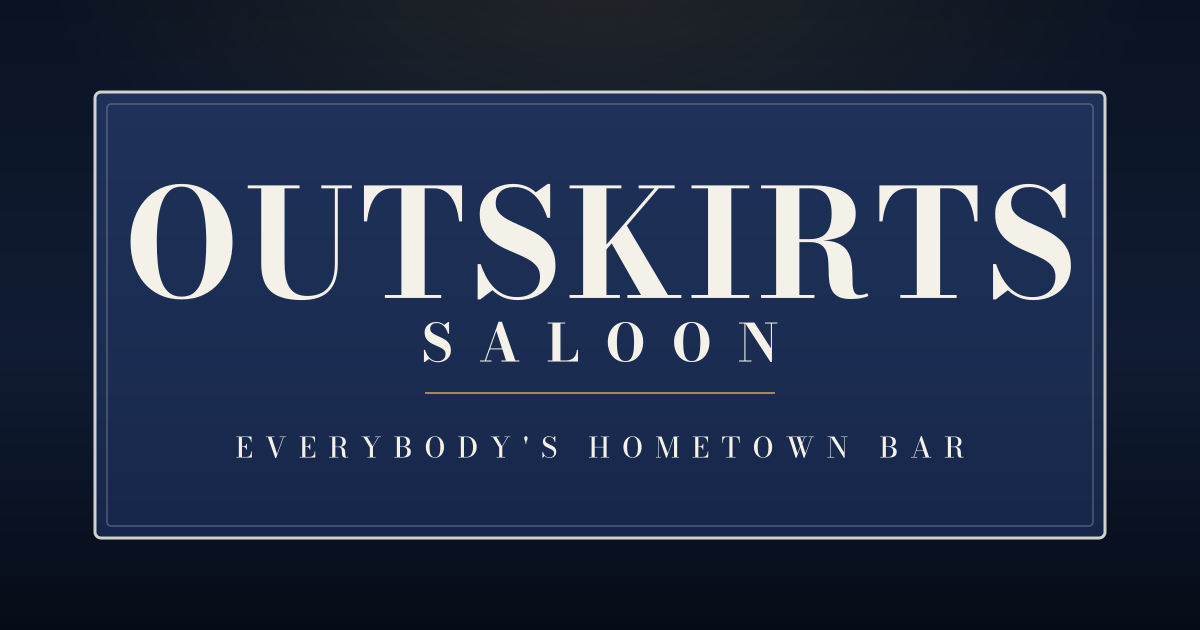
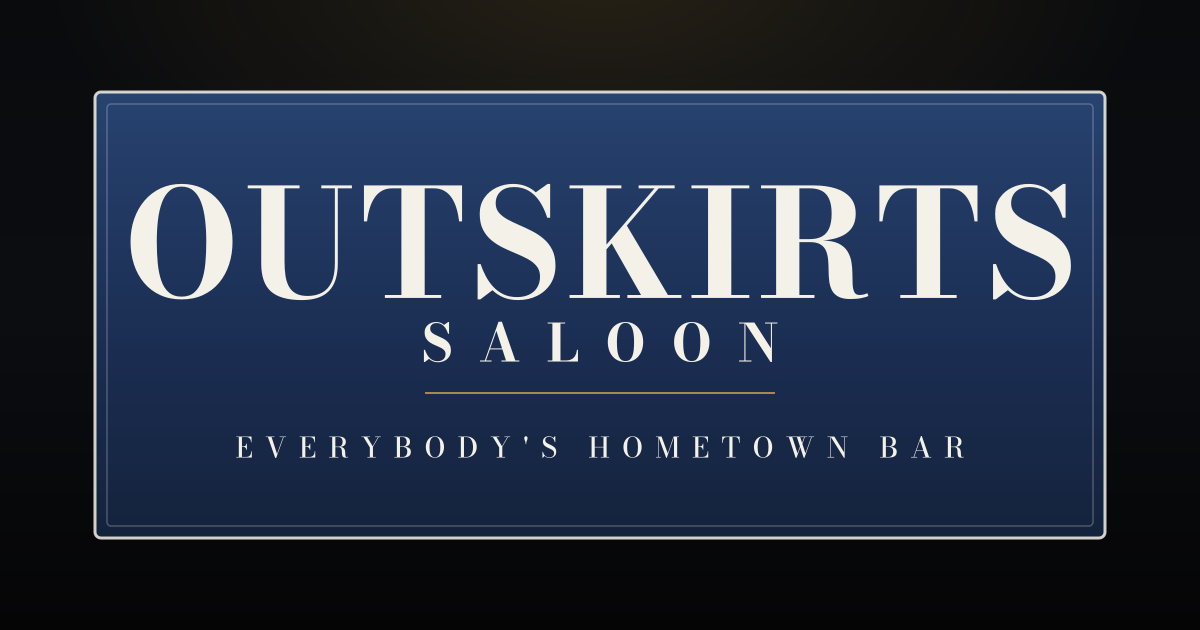
Shift theme to near-black for a dark bar feel
Page, nav, footer, cards, and fact tiles move from deep navy to near-black
charcoal; only the signboard keeps the physical sign's navy so the lit board
glows against the black. Fix hardcoded blue nav background to use the black.
De-blue caption gray. Regenerate og.png to match.

Changed region(s): [[0.8633, 0.1206, 1.0, 0.8444], [0.0, 0.1206, 0.1233, 0.8444], [0.2158, 0.1206, 0.2467, 0.1508]]

diff --git a/app/globals.css b/app/globals.css
@@ -10,18 +10,20 @@
 */
 
 :root {
-  /* Darker "lit sign at night" saloon palette. The signboard field stays a
-     true, slightly-brighter navy so it glows against a deep near-black page. */
-  --navy: #101c34;        /* primary page background — deep navy */
-  --navy-deep: #0a1322;   /* nav, footer, deepest panels */
-  --navy-lift: #1e3159;   /* card gradient top / lit sign field */
-  --sign: #1a2c50;        /* the physical sign's navy — used on the signboard */
+  /* Dark bar palette: near-black page with warm brass light. Only the
+     signboard keeps the navy of the physical sign, so the lit board glows
+     against the black rather than the whole site reading blue. */
+  --navy: #0b0d11;        /* primary page background — near black */
+  --navy-deep: #060708;   /* nav, footer, deepest panels — black */
+  --navy-lift: #16191f;   /* card gradient top — dark charcoal */
+  --sign: #1a2c50;        /* the physical sign's navy (the board) */
+  --sign-lift: #274370;   /* lit highlight at the top of the board */
   --cream: #f4f1e8;       /* the letters */
-  --cream-dim: #ccd4e2;
-  --brass: #d3a94f;       /* sole accent — nudged brighter to glow on the dark */
+  --cream-dim: #cbd0da;
+  --brass: #d3a94f;       /* sole accent — warm amber light on the black */
   --rust: #b04a31;
-  --slate: #8191ac;
-  --line: rgba(244, 241, 232, 0.13);
+  --slate: #8b90a0;       /* neutral caption gray (less blue) */
+  --line: rgba(244, 241, 232, 0.1);
   --maxw: 1160px;
 
   /* Fallbacks; next/font overrides these on <body>. */
@@ -87,7 +89,7 @@ header.nav {
   position: sticky;
   top: 0;
   z-index: 50;
-  background: rgba(19, 33, 64, 0.9);
+  background: rgba(8, 9, 11, 0.85);
   backdrop-filter: blur(10px);
   border-bottom: 1px solid var(--line);
 }
@@ -226,20 +228,20 @@ nav.links a[aria-current='page'] {
   padding: 9vh 0 8vh;
   overflow: hidden;
   background:
-    radial-gradient(120% 90% at 50% -15%, rgba(211, 169, 79, 0.1), transparent 55%),
-    radial-gradient(100% 70% at 50% 0%, rgba(255, 255, 255, 0.05), transparent 60%),
-    linear-gradient(180deg, var(--navy-deep), var(--navy) 55%, #060c17);
+    radial-gradient(120% 90% at 50% -15%, rgba(211, 169, 79, 0.11), transparent 55%),
+    radial-gradient(100% 70% at 50% 0%, rgba(255, 255, 255, 0.03), transparent 60%),
+    linear-gradient(180deg, #0a0b0d, var(--navy) 55%, #050506);
 }
 .signboard {
   position: relative;
   border: 2px solid rgba(244, 241, 232, 0.85);
   border-radius: 3px;
   padding: clamp(26px, 5vw, 54px) clamp(18px, 4vw, 44px);
-  background: linear-gradient(180deg, var(--navy-lift), var(--sign) 65%, #16264a);
+  background: linear-gradient(180deg, var(--sign-lift), var(--sign) 60%, #14233c);
   box-shadow:
-    0 30px 70px rgba(0, 0, 0, 0.55),
-    0 0 40px rgba(211, 169, 79, 0.08),
-    inset 0 1px 0 rgba(255, 255, 255, 0.08),
+    0 34px 80px rgba(0, 0, 0, 0.7),
+    0 0 46px rgba(211, 169, 79, 0.1),
+    inset 0 1px 0 rgba(255, 255, 255, 0.09),
     inset 0 0 0 1px rgba(244, 241, 232, 0.14);
   text-align: center;
 }
